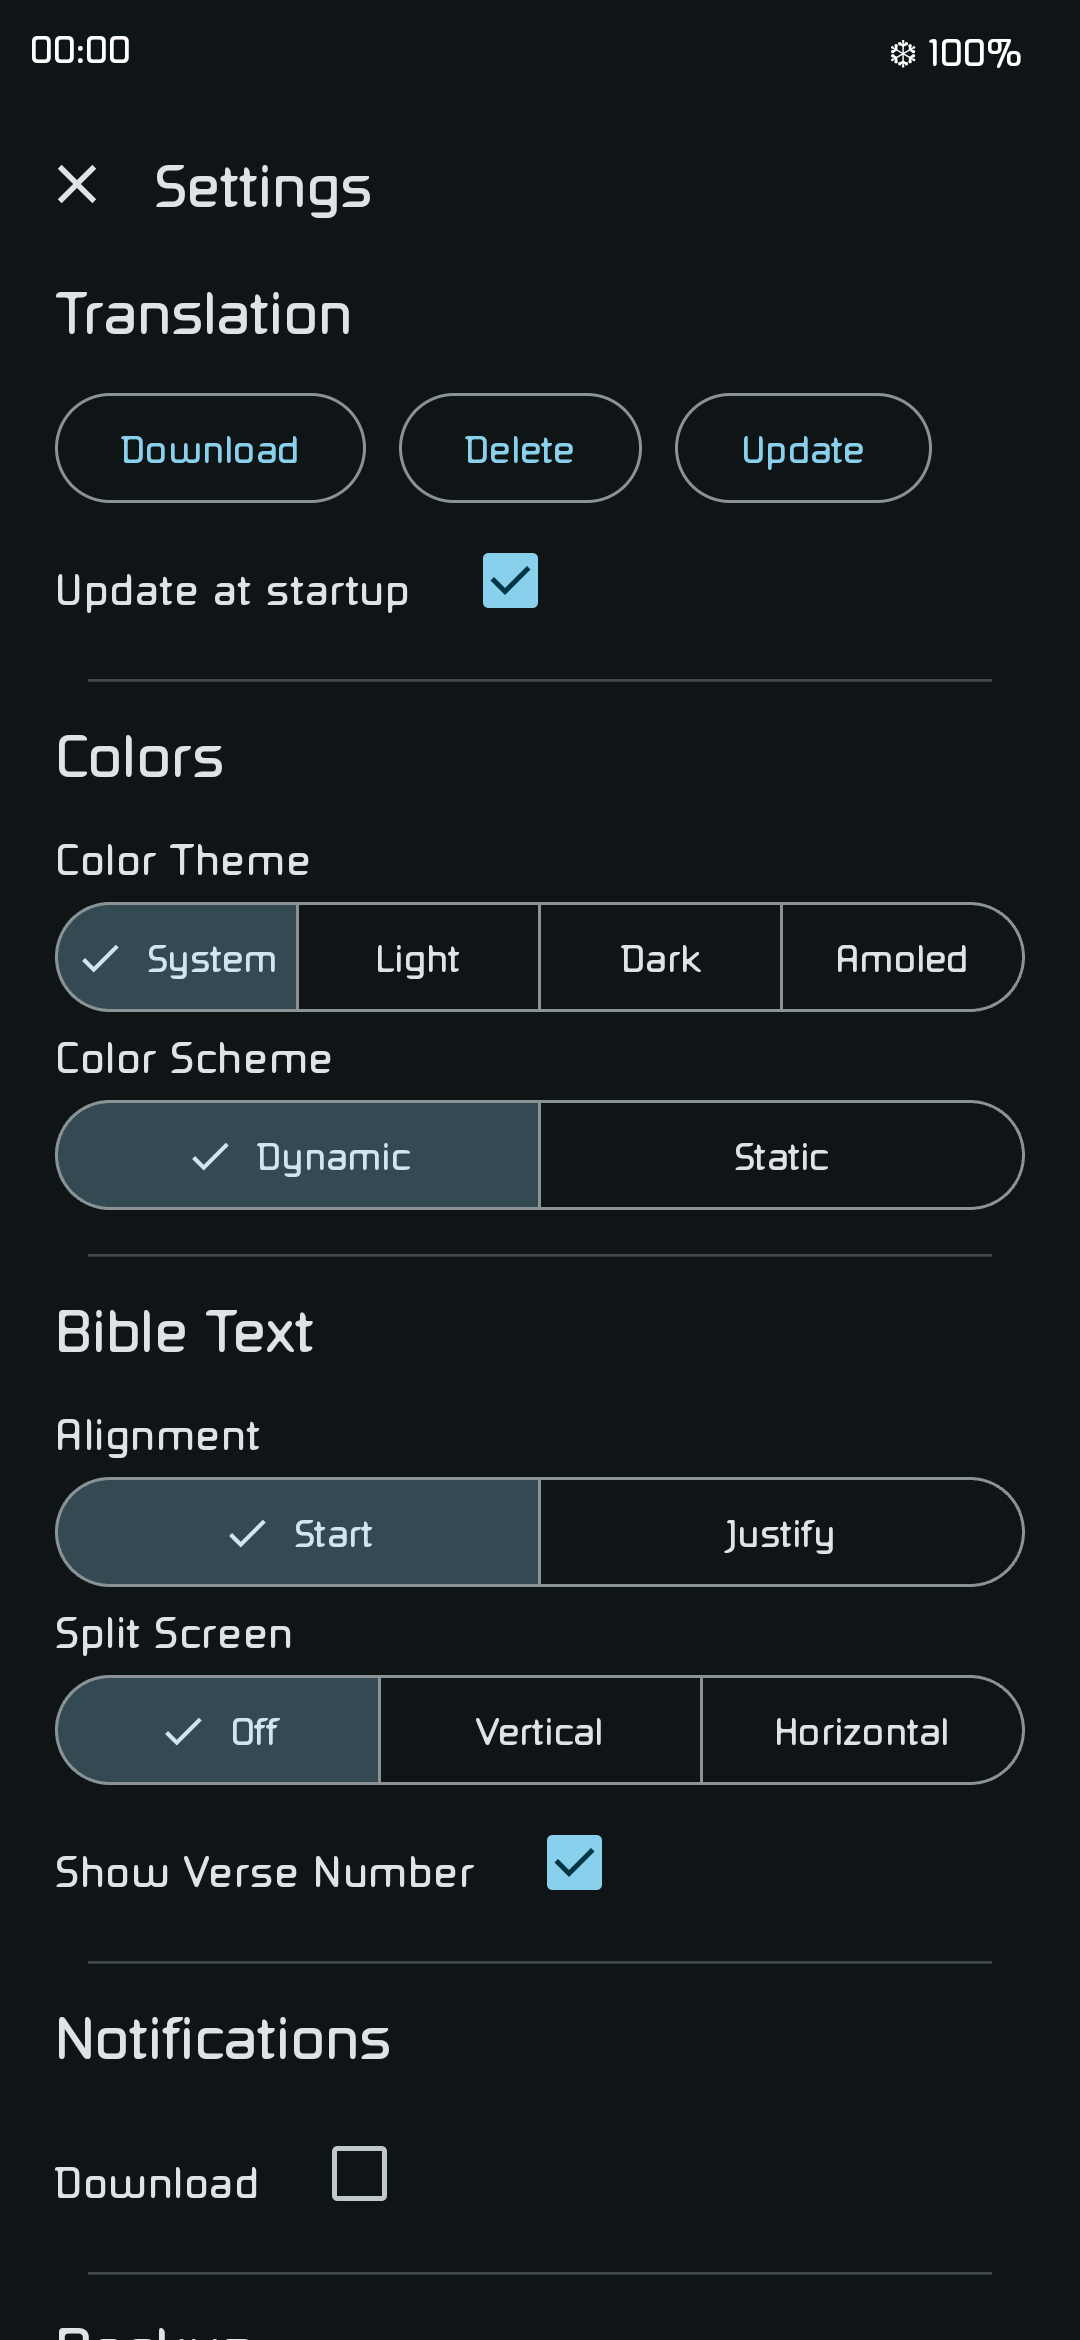
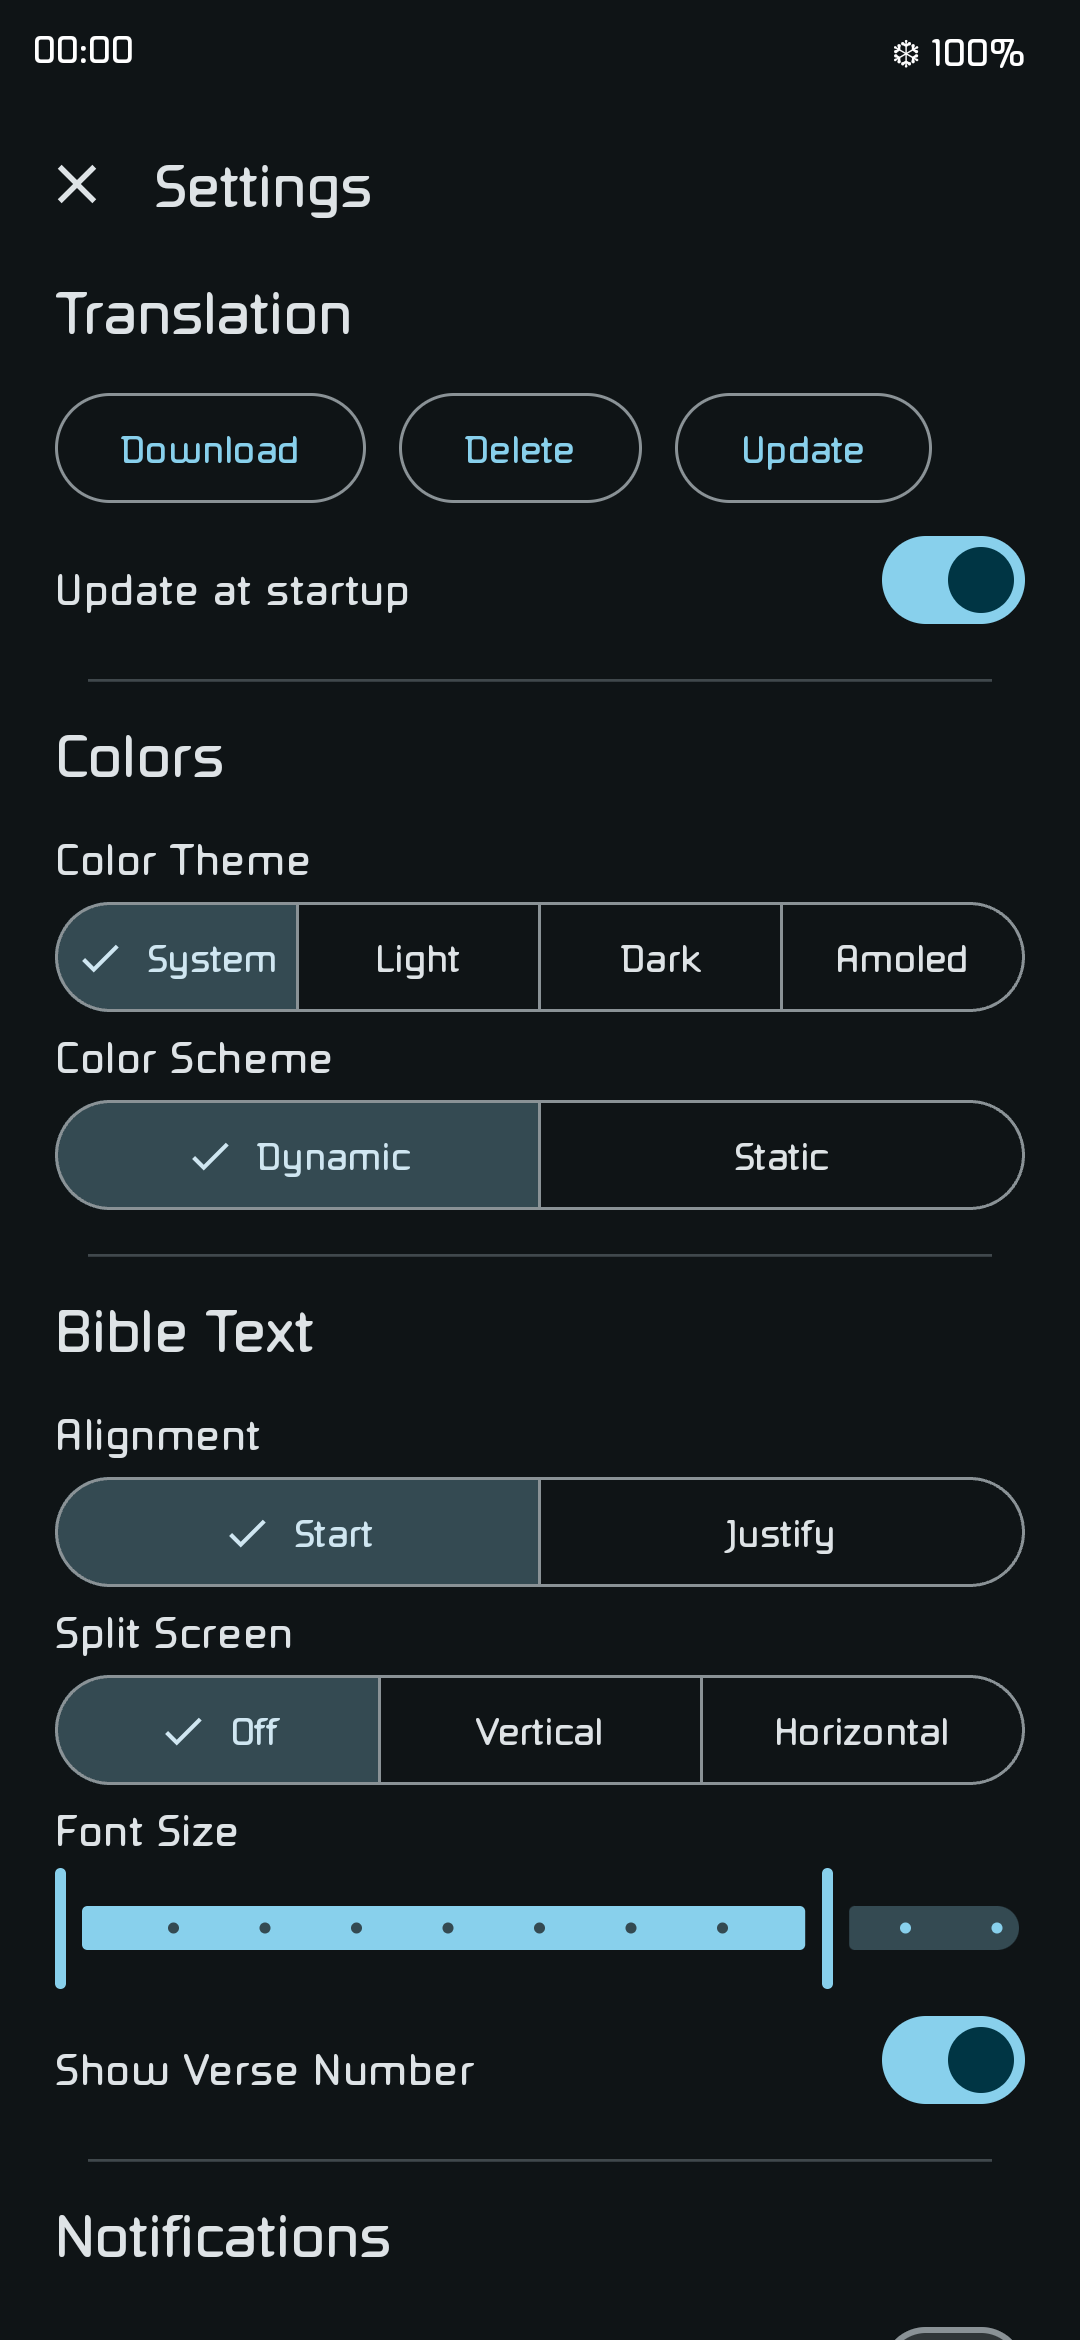
chore: bump to 1.9.0

diff --git a/docs/CHANGELOG.md b/docs/CHANGELOG.md
@@ -2,6 +2,31 @@
 
 All notable changes to this project will be documented in this file.
 
+## [1.9.0] - 2025-07-18
+
+### 🚀 Features
+
+- Seperate translation and chapter selection in ReadScreen title
+- Set font size range
+
+### 🐛 Bug Fixes
+
+- *(ui)* Remove padding around TranslationButton in ReadScreen
+- Update kotlin jvmTarget
+
+### 🚜 Refactor
+
+- *(ui)* Use switches instead of checkboxes in settings
+
+### 📚 Documentation
+
+- *(readme)* Update `Get It On Github` badge link
+- *(readme)* Fix license path of license badge
+
+### ⚙ Miscellaneous Tasks
+
+- Update deprecated kotlin compilerOptions
+
 ## [1.8.1] - 2025-06-12
 
 ### 📚 Documentation
@@ -23,6 +48,7 @@ All notable changes to this project will be documented in this file.
 - *(dependabot)* Add github-actions
 - *(build)* Inherit secret
 - *(release)* Fix release body
+- Bump to 1.8.1
 
 ## [1.8.0] - 2025-05-09
 
